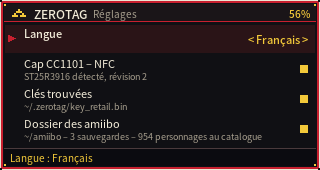
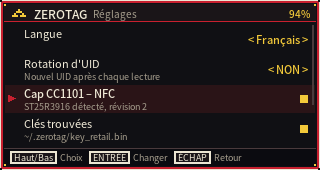
Packages include the amiibo thumbnails again; store screenshots; version 0.3.3
The thumbnails (artwork owned by Nintendo, 954 files) are bundled in the .deb whenever assets/amiibo/images exists on
the build machine, so installed apps show them. They stay out of the source repository and its history.
README, THIRD_PARTY and the store description say so. Six 320x170 store screenshots (no artwork in them) replace
the two old ones; passes the store metadata policy locally.

diff --git a/README.md b/README.md
@@ -54,12 +54,11 @@ mkdir -p ~/.zerotag ~/amiibo
 cp key_retail.bin ~/.zerotag/key_retail.bin && chmod 600 ~/.zerotag/key_retail.bin
 ```
 
-**Thumbnails** are artwork owned by Nintendo and are not distributed. To show them, run once on any machine with
-Python and Pillow (`uv run` or `pip install pillow`), then copy the folder to the device:
-
-```shell
-tools/fetch_amiibo_images.py --out ~/.zerotag/images
-```
+**Thumbnails**: the `.deb` includes a small picture of each amiibo (artwork owned by Nintendo, taken from the
+AmiiboAPI image repository, for display only). They are not part of this source repository. If you build from source,
+fetch them yourself with `tools/fetch_amiibo_images.py` (Python with Pillow) into `assets/amiibo/images` before
+packaging, or into `~/.zerotag/images` on the device (the app looks in `/usr/share/zerotag/amiibo/images` first, then
+there). Without them the app works and shows empty frames.
 
 Backups go in `~/amiibo` (override with `ZEROTAG_AMIIBO_DIR`; keys with `ZEROTAG_KEYS`).
 

diff --git a/THIRD_PARTY.md b/THIRD_PARTY.md
@@ -17,7 +17,8 @@ ZeroTag itself is MIT licensed (see `LICENSE`). It uses or derives from the foll
 
 - **Amiibo keys** (`key_retail.bin`): you must supply your own, ZeroTag never ships or downloads them.
 - **Amiibo artwork**: the thumbnails come from the AmiiboAPI image repository and belong to Nintendo. They are
-  not part of this repository or of the packages; `tools/fetch_amiibo_images.py` downloads them on your machine.
+  included in the `.deb` packages for display only and are **not** part of this source repository;
+  `tools/fetch_amiibo_images.py` downloads them on your machine.
 - pixl.js (GPL-2.0) is an inspiration only: no code from it is used.
 
 Amiibo is a trademark of Nintendo. ZeroTag is not affiliated with or endorsed by Nintendo, M5Stack or AmiiboAPI.
